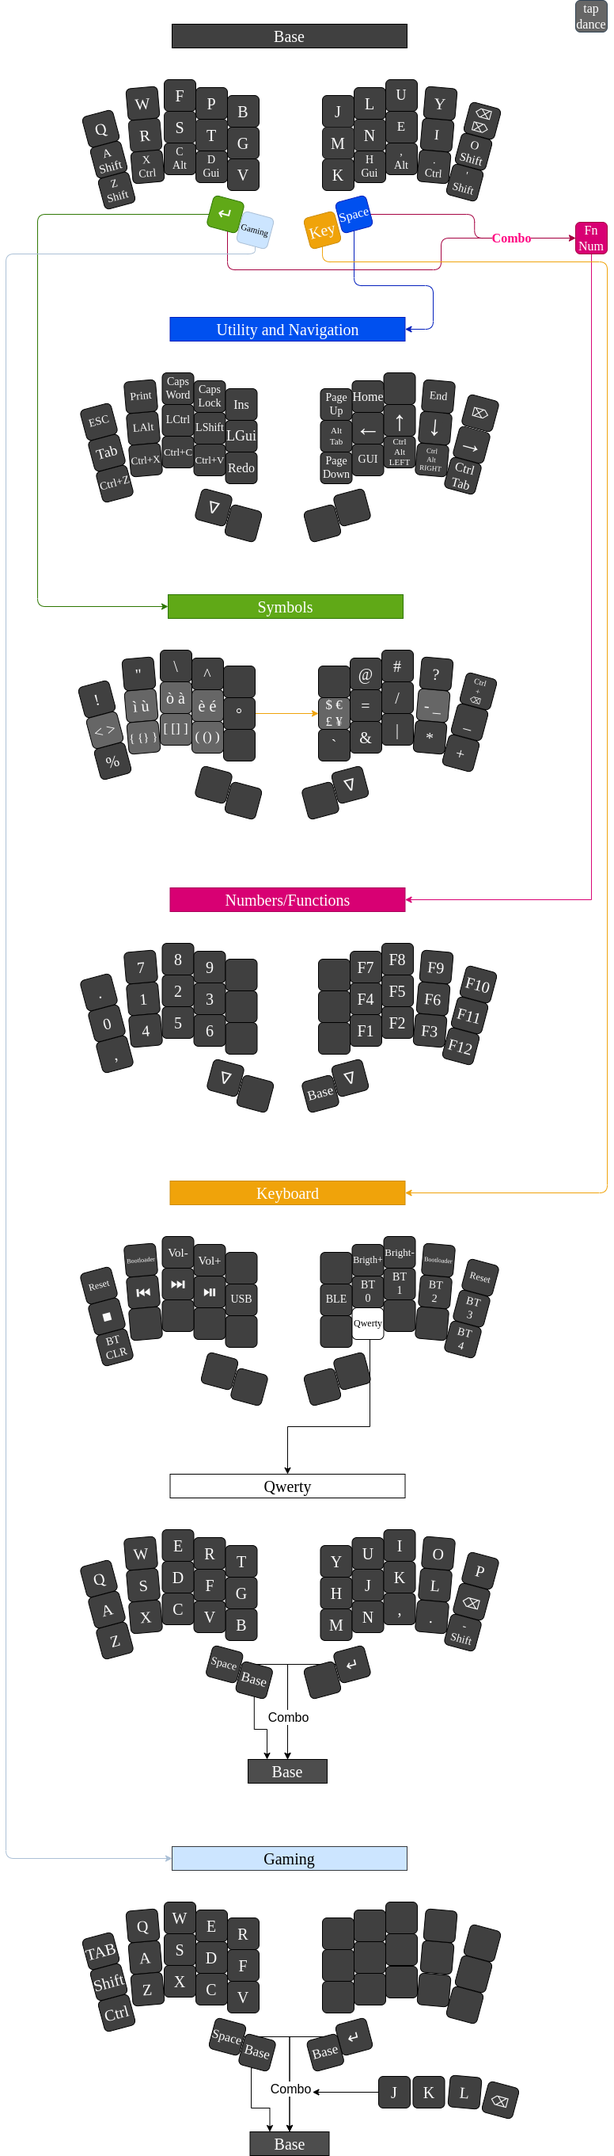
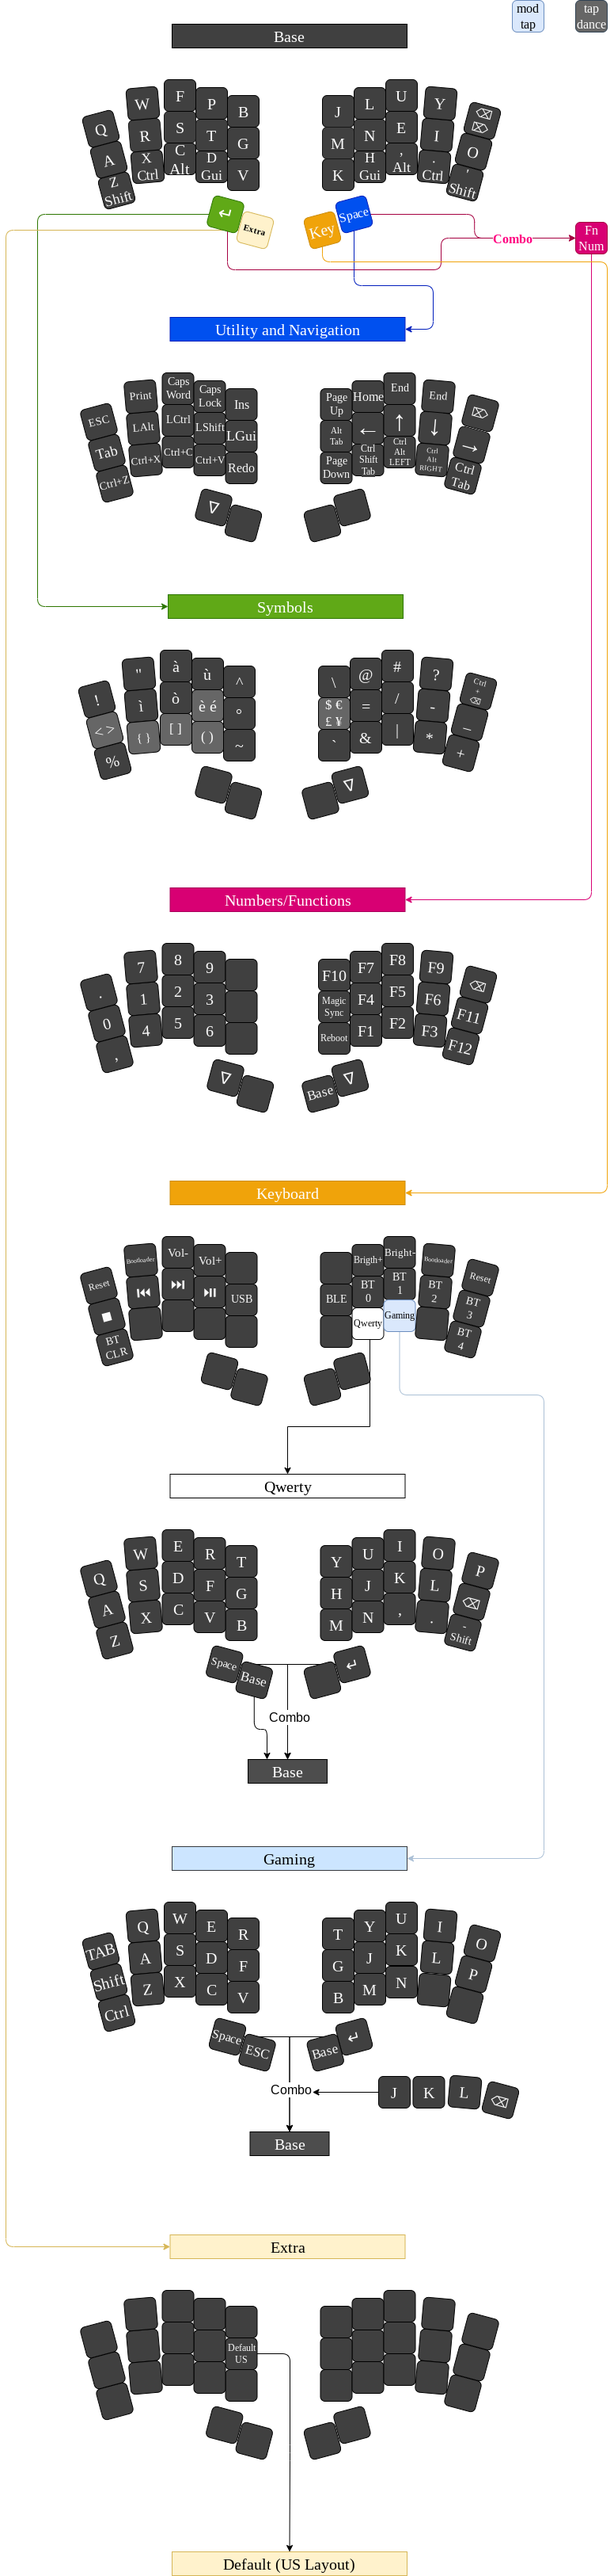
Better gaming layer

diff --git a/qmk/config.h b/qmk/config.h
@@ -1,0 +1,47 @@
+/*
+Copyright 2020 Pierre Chevalier <pierrechevalier83@gmail.com>
+
+This program is free software: you can redistribute it and/or modify
+it under the terms of the GNU General Public License as published by
+the Free Software Foundation, either version 2 of the License, or
+(at your option) any later version.
+
+This program is distributed in the hope that it will be useful,
+but WITHOUT ANY WARRANTY; without even the implied warranty of
+MERCHANTABILITY or FITNESS FOR A PARTICULAR PURPOSE.  See the
+GNU General Public License for more details.
+
+You should have received a copy of the GNU General Public License
+along with this program.  If not, see <http://www.gnu.org/licenses/>.
+*/
+
+#pragma once
+// Set the mouse settings to a comfortable speed/accuracy trade-off,
+// assuming a screen refresh rate of 60 Htz or higher
+// The default is 50. This makes the mouse ~3 times faster and more accurate
+#define MOUSEKEY_INTERVAL 16
+// The default is 20. Since we made the mouse about 3 times faster with the previous setting,
+// give it more time to accelerate to max speed to retain precise control over short distances.
+#define MOUSEKEY_TIME_TO_MAX 40
+// The default is 300. Let's try and make this as low as possible while keeping the cursor responsive
+#define MOUSEKEY_DELAY 100
+// It makes sense to use the same delay for the mouseweel
+#define MOUSEKEY_WHEEL_DELAY 100
+// The default is 100
+#define MOUSEKEY_WHEEL_INTERVAL 50
+// The default is 40
+#define MOUSEKEY_WHEEL_TIME_TO_MAX 100
+
+// Pick good defaults for enabling homerow modifiers
+#define TAPPING_TERM 175
+#define PERMISSIVE_HOLD
+#define IGNORE_MOD_TAP_INTERRUPT
+#define TAPPING_FORCE_HOLD
+
+// Underglow configuration
+#ifdef RGBLIGHT_ENABLE
+  #define RGBLIGHT_ANIMATIONS
+  #define RGBLIGHT_HUE_STEP 8
+  #define RGBLIGHT_SAT_STEP 8
+  #define RGBLIGHT_VAL_STEP 8
+#endif
